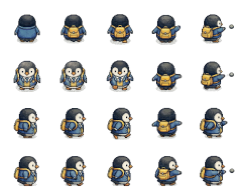
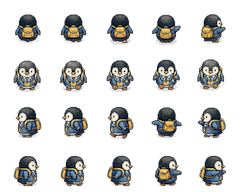
fix: melee attack animation visible + add manzana powerup sprite

diff --git a/src/entities/PoliciaEstandar.js b/src/entities/PoliciaEstandar.js
@@ -28,6 +28,7 @@ export default class PoliciaEstandar extends Enemy {
     // State machine
     this._state = 'patrol'
     this._baseSpeed = BASE_SPEED
+    this._isAttacking = false
 
     // Patrol config — patrol toward center of map from spawn point
     this._patrolAxis = Math.random() < 0.5 ? 'horizontal' : 'vertical'
@@ -105,7 +106,10 @@ export default class PoliciaEstandar extends Enemy {
       if (this.visible !== false && this.setVisible) this.setVisible(false)
     } else {
       if (this.visible === false && this.setVisible) this.setVisible(true)
-      if (nearest && distToTarget <= MELEE_RANGE) {
+      // Don't change state while attack animation is playing
+      if (this._isAttacking) {
+        this._state = 'attack'
+      } else if (nearest && distToTarget <= MELEE_RANGE) {
         this._state = 'attack'
       } else if (nearest && distToTarget <= DETECTION_RANGE) {
         this._state = 'chase'
@@ -209,6 +213,9 @@ export default class PoliciaEstandar extends Enemy {
 
     if (!this.target) return
 
+    // Don't interrupt an ongoing attack animation
+    if (this._isAttacking) return
+
     // Face the target
     const dx = this.target.x - this.x
     const dy = this.target.y - this.y
@@ -219,14 +226,31 @@ export default class PoliciaEstandar extends Enemy {
     }
 
     if (this.canAttack()) {
-      // Play baton strike animation
+      this._isAttacking = true
+
+      // Play baton strike animation (wind-up → strike → return)
       const attackKey = `policiaEstandar_attack_${this._lastDirection}`
       if (this.scene?.anims?.exists(attackKey)) {
         this.play(attackKey)
-      }
 
-      if (this.target.takeDamage) {
-        this.target.takeDamage(this.damage, this.x, this.y)
+        // Deal damage on the strike frame (frame index 2 = impact)
+        const onFrame = (anim, frame) => {
+          if (frame.index === 2 && this.target?.takeDamage) {
+            this.target.takeDamage(this.damage, this.x, this.y)
+          }
+        }
+        this.on('animationupdate', onFrame)
+
+        this.once('animationcomplete', () => {
+          this._isAttacking = false
+          this.off('animationupdate', onFrame)
+        })
+      } else {
+        // Fallback: no animation, apply damage directly
+        this._isAttacking = false
+        if (this.target.takeDamage) {
+          this.target.takeDamage(this.damage, this.x, this.y)
+        }
       }
     } else {
       // Idle while waiting for cooldown

diff --git a/src/scenes/BootScene.js b/src/scenes/BootScene.js
@@ -141,11 +141,11 @@ export default class BootScene extends Phaser.Scene {
       this.anims.create({ key: `${key}_idle_left`, frames: [{ key, frame: 10 }], frameRate: 1 })
       this.anims.create({ key: `${key}_idle_right`, frames: [{ key, frame: 15 }], frameRate: 1 })
 
-      // Attack animations (frames 3,4 per row) — plays once at 4fps (~500ms)
-      this.anims.create({ key: `${key}_attack_up`, frames: this.anims.generateFrameNumbers(key, { frames: [3, 4] }), frameRate: 4, repeat: 0 })
-      this.anims.create({ key: `${key}_attack_down`, frames: this.anims.generateFrameNumbers(key, { frames: [8, 9] }), frameRate: 4, repeat: 0 })
-      this.anims.create({ key: `${key}_attack_left`, frames: this.anims.generateFrameNumbers(key, { frames: [13, 14] }), frameRate: 4, repeat: 0 })
-      this.anims.create({ key: `${key}_attack_right`, frames: this.anims.generateFrameNumbers(key, { frames: [18, 19] }), frameRate: 4, repeat: 0 })
+      // Attack animations (frames 3,4 per row) — wind-up then strike, 6fps for snappy feel
+      this.anims.create({ key: `${key}_attack_up`, frames: this.anims.generateFrameNumbers(key, { frames: [3, 4, 3] }), frameRate: 6, repeat: 0 })
+      this.anims.create({ key: `${key}_attack_down`, frames: this.anims.generateFrameNumbers(key, { frames: [8, 9, 8] }), frameRate: 6, repeat: 0 })
+      this.anims.create({ key: `${key}_attack_left`, frames: this.anims.generateFrameNumbers(key, { frames: [13, 14, 13] }), frameRate: 6, repeat: 0 })
+      this.anims.create({ key: `${key}_attack_right`, frames: this.anims.generateFrameNumbers(key, { frames: [18, 19, 18] }), frameRate: 6, repeat: 0 })
     }
 
     // Vehicle animations (4 cols: idle, walk1, walk2, attack × 4 rows: up, down, left, right)
